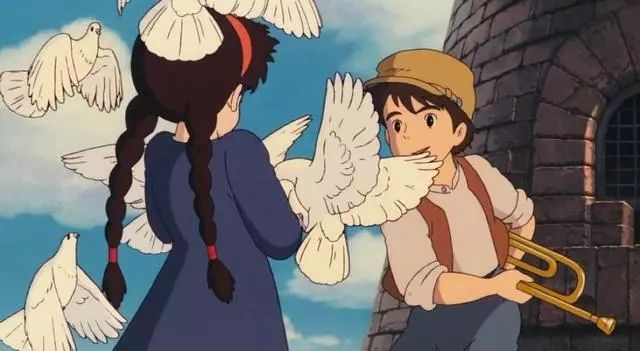
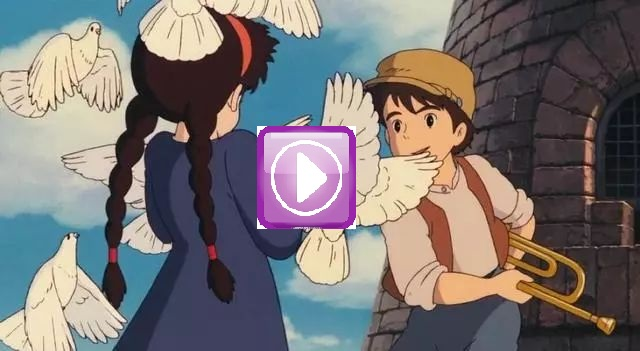
a

Changed region(s): [[0.375, 0.3419, 0.5625, 0.6553]]

diff --git a/_posts/2018-02-23-宫崎骏作品.md b/_posts/2018-02-23-宫崎骏作品.md
@@ -1,7 +1,7 @@
 ---
 layout:     post
 title:      宫崎骏作品
-subtitle:   附观影地址
+subtitle:   点击影片图片可播放
 author:     DD
 header-img: img/movie/gongqijun.jpg
 catalog: 	 true
@@ -11,18 +11,91 @@ keyword:
     - 宫崎骏
 ---
 
-### 宫崎骏介绍
+## 文中图片都会链接到播放地址
+点开即可观看
+
+
+## 宫崎骏介绍
  
  宫崎骏（日语：宮﨑 駿／みやざき はやお Miyazaki Hayao，1941年1月5日－）是日本动画师、动画导演、及漫画家。毕业于杉并区立永福小学校、杉并区立大宫中学校、东京都立丰多摩高等学校及学习院大学政治经济学院。大学毕业后踏入动画制作工作，日后成为日本知名动画厂吉卜力工作室的核心人物之一。其执导过11部长篇动画电影，多次宣布退休，2013年9月时是第7次宣布退休[2]，2016年再度复出。现任吉卜力工作室董事、德间纪念动画文化财团理事长、三鹰市立动画美术馆馆长。
 
-### 作品介绍
+## 作品介绍
 
 宫崎骏动画作品大多涉及人类与自然之间的关系、和平主义及女权运动，出品的动漫电影以精湛的技术、动人的故事和温暖的风格在世界动漫界独树一帜。宫崎骏的所有作品中，最为经典的可能就是《千与千寻》了。小编找到了宫崎骏的所有作品合集，一共34部。有他导演的，还有他编剧的，你看过几部呢？
 
-#### 1986年《天空之城》
-![](https://yabaowang.github.io/img/movie/tiankongzhicheng.jpg)
-少女希达戴着一串有飞行魔力的项链从空中落下，遭到国防军特务和海盗朵拉两组人的追击。见习机械工巴鲁救了希达把她收留在自己家里。希达在巴鲁的房中发现了一张天空之城的照片，巴鲁告诉希达自己死去的父亲曾经见到过传说中埋藏着宝藏的空中浮岛拉普塔，他的梦想就是找到这座天空之，宫崎骏的所有作品中最为经典之一。
-在线播放地址：
-[![点击播放](https://yabaowang.github.io/img/movie/tiankongzhicheng.jpg)](http://28xx.top/index.php/vod/play/id/1758/sid/1/nid/1.html)
 
-#### 马上更新后面的作品，等等哦~
+**1、1986年《天空之城》**
+[![点击播放](https://yabaowang.github.io/img/movie/tiankongzhicheng.jpg)](http://28xx.top/index.php/vod/play/id/1758/sid/1/nid/1.html)
+少女希达戴着一串有飞行魔力的项链从空中落下，遭到国防军特务和海盗朵拉两组人的追击。见习机械工巴鲁救了希达把她收留在自己家里。希达在巴鲁的房中发现了一张天空之城的照片，巴鲁告诉希达自己死去的父亲曾经见到过传说中埋藏着宝藏的空中浮岛拉普塔，他的梦想就是找到这座天空之，宫崎骏的所有作品中最为经典之一。
+
+**2、千与千寻**
+[![点击播放](https://yabaowang.github.io/img/movie/qianyuqianxun.jpg)](http://28xx.top/index.php/vod/play/id/18649/sid/1/nid/1.html)
+千与千寻是宫崎骏的所有作品中最出色的作品。10岁的少女千寻与父母一起从都市搬家到了乡下。没想到在搬家的途中，一家人发生了意外。他们进入了汤屋老板魔女控制的奇特世界——在那里不劳动的人将会被变成动物。千寻的父母出生在日本经济高速增长时代，对金钱物质有强烈的向往和控制欲，他们在幻境里触犯规则而变成了猪，千寻孤独的留在幻境里。支配城镇的魔女强行改掉了千寻的名字，这更让她感觉到自我丧失的恐怖。
+
+**3、1988年《龙猫》**
+[![点击播放](http://crawl.nosdn.127.net/nbotreplaceimg/807fb39cdf0a2cc26bd7c0ec0855255d/5fa3c488d591a1cff56ac1afb8f0b7d5.jpg)](http://28xx.top/index.php/vod/play/id/9400/sid/1/nid/1.html)
+
+和爸爸一起搬到乡下的两姐妹，在家旁的一棵大树下发现了只有好孩子才能看见的TOTORO，其间发生了很多不可思议而有趣的故事。一天，妹妹小米和姐姐吵架之后，便独自出走，去找自己生病住院的妈妈，途中却迷路了。姐姐四处寻找无果的情况下，只好求助于TOTORO。善良而温和的TOTORO唤来龙猫电车，载着姐姐找到了迷路的妹妹，乘着龙猫电车，妹妹把亲手摘的玉米送给妈妈，希望她早日康复。
+
+**4、1997年《幽灵公主》**
+[![点击播放](http://crawl.nosdn.127.net/nbotreplaceimg/807fb39cdf0a2cc26bd7c0ec0855255d/d5e55a248824ebc405ade0ca8300b161.jpg)](http://28xx.top/index.php/vod/play/id/9860/sid/1/nid/1.html)
+珊是宫崎骏电影《幽灵公主》的女主角。脸上常戴面具，身披狼皮，手持长矛。被人类遗弃在森林，后被白狼神(莫娜)收养，与白狼共同守护着森林和麒麟兽(山兽神)，她满怀对人类的仇恨，身配利器，专门刺杀破坏森林的人类，与他们势不两立。后来被阿席达卡所救，渐渐的对阿席达卡的态度有所好转。这部动漫也是宫崎骏的所有作品中最为经典之一。
+
+**5、1992年《红猪》**
+[![点击播放](http://crawl.nosdn.127.net/nbotreplaceimg/807fb39cdf0a2cc26bd7c0ec0855255d/bcc1a9c1d5eae332fcb7ddc33d2f468a.jpg)]
+与宫崎骏其他的作品有所不同，"红猪"的主角并不是少男少女，而是一头已届中年的猪。主人公虽然生得一付猪的脸孔，却异常地受到女性的欢迎呢。剧中的两位女主角年龄跨度不小，但都是一如既往地真心喜欢着波鲁克。《红猪》是宫崎骏一部带有自传性质的电影，宫崎骏自喻为剧中主人公波鲁克，将自己的那种处在俗世而身不由己的矛盾构思成波鲁克的传奇故事。
+
+**6、风之谷**
+[![点击播放](http://crawl.nosdn.127.net/nbotreplaceimg/807fb39cdf0a2cc26bd7c0ec0855255d/1bcf9d4707b04ced583efed884dc9f0b.jpg)]
+风之谷也算得上是宫崎骏的所有作品中最为经典之一，故事将大背景设定于"火之七日"战争后，科技急剧衰落，人类在世界被一种只有巨型昆虫能适应的"腐海"生态系包围的夹缝里苟延残喘的末世中。讲述了腐海边陲国家风之谷的公主娜乌西卡卷入一场王国间的激战，并在旅途中逐步发现腐海背后隐藏的秘密，引领人们重新走上生存的正轨的故事。
+
+**7、悬崖上的金鱼姬**
+[![点击播放](http://crawl.nosdn.127.net/nbotreplaceimg/807fb39cdf0a2cc26bd7c0ec0855255d/7eb8c521d963916b036fd75b079bb7a3.jpg)]
+**1968年《太阳王子霍尔斯的大冒险》**
+[![点击播放](http://crawl.nosdn.127.net/nbotreplaceimg/807fb39cdf0a2cc26bd7c0ec0855255d/5db8cf695f31da2f873a7a6bc77f3254.jpg)]
+孤立自人类社会的霍尔斯和其父住在一座无人岛上。一日，霍尔斯自岩石巨人莫克身上取得太阳之剑，并被其封为太阳王子。小熊可洛前来通知霍尔斯其父将死，他便赶紧回去守在他床边听候遗言，而其父的遗言是要他到和他们一样的人类社会去。
+
+**1981年《鲁邦三世：卡里奥斯特之城》**
+[![点击播放](http://crawl.nosdn.127.net/nbotreplaceimg/807fb39cdf0a2cc26bd7c0ec0855255d/2a3cbcde4ce467c62a334e3a04af37f7.jpg)]
+被戛纳电影节誉为"史上最好的冒险剧之一"，片头的汽车追逐战被誉为"电影史上最完美的汽车追逐战"。
+
+**1984年《未来少年柯南特别版剧场版》**
+[![点击播放](http://crawl.nosdn.127.net/nbotreplaceimg/807fb39cdf0a2cc26bd7c0ec0855255d/0da8dd5571932ee361b6ab918b9bc93c.jpg)]
+作品讲述了未来世界，科技高速发展，地球在核子战争中重生，荒岛上幸存者的后代少年柯南和神秘少女拉娜展开了他们的冒险。
+
+**1989年《魔女宅急便》**
+[![点击播放](http://crawl.nosdn.127.net/nbotreplaceimg/807fb39cdf0a2cc26bd7c0ec0855255d/0828ec85b65e7561c07c17d3b1d0dedd.jpg)]
+影片讲述的是魔法少女琪琪离开家进行独立修行的经历。这部电影描绘出日本一般青春期女孩在希望独立与自力更生所面临的困境。
+
+**《红发少女安妮 》**
+[![点击播放](http://crawl.nosdn.127.net/nbotreplaceimg/807fb39cdf0a2cc26bd7c0ec0855255d/944a9cb3055b2b38b89403b1fb9fdd52.jpg)]
+故事讲述了住在"绿山墙农庄" 的一对单身兄妹，马修和玛丽拉，因为年事渐高，想收养一个男孩帮忙农作。但是孤儿院方面送来的竟是一个瘦小的红头发小孤女--安妮。这个脸上长满雀斑、有一头火红头发、活泼好动、爱说爱笑、爱幻想的少女，同马修兄妹那种沉稳拘谨的性格本来是格格不入的，但是安妮以她的天真和热情，最终征服了众人的心，不仅在绿山墙留了下来，还倍受大家的疼爱。马修兄妹的生活也渐渐变得充满活力与生机。
+
+**1991年《岁月的童话》**
+[![点击播放](http://crawl.nosdn.127.net/nbotreplaceimg/807fb39cdf0a2cc26bd7c0ec0855255d/769d6dd1d697d958c4ddb49993d1e153.jpg)]
+影片讲述了妙子在十天的乡间假日中渐渐了解了自己，了解了生活，并由此找到了自己的意中人改变了人生的故事。
+
+**1994年《百变狸猫》**
+[![点击播放](http://crawl.nosdn.127.net/nbotreplaceimg/807fb39cdf0a2cc26bd7c0ec0855255d/18b5a56be6c1efce439477c14e695bc0.jpg)]
+讲述一群狸猫原居于和平宁静的东京郊区，但人类拓展城市，令它们的生活环境大受威胁。为了保卫家园，狸猫决议与有先进科技的人类对抗，复用早已息微的"易容术"，阻止人类的开发活动。初时它们的恶作剧令人类大感震惊，但后来却发生了同伴被杀的悲剧...最终唯有向住在隔离森林的狐狸求助，因狐狸曾与人类为敌...这场人与动物之纷争结果又如何收场。
+
+**2002年《猫的报恩》**
+[![点击播放](http://crawl.nosdn.127.net/nbotreplaceimg/807fb39cdf0a2cc26bd7c0ec0855255d/afddb47670c228153e844b0ac42c5e53.jpg)]
+讲述善良的小春从车轮下救了一只猫的性命，从而开始了奇怪的际遇。
+
+**2004年《哈尔的移动城堡》**
+[![点击播放](http://crawl.nosdn.127.net/nbotreplaceimg/807fb39cdf0a2cc26bd7c0ec0855255d/49e2d1afc8926161975eacd2819c5d61.jpg)]
+这部剧场版动画以战争前夜为背景，描述住在小镇的三姐妹，其中的大姐苏菲是位制作帽子的专家，但她却因此得罪了女巫，从18岁的美少女变成了90岁的老太婆。她惊恐地逃出家里，但又进入了一座移动的城堡，她和不能与人相恋但懂魔法的哈尔，谱出了一段战地恋曲，并且和城堡里的其他人一起想办法解开身上的魔咒。其中的城堡部分带有19世纪末钢铁工厂的特殊风格。
+
+**2013年《起风了》**
+[![点击播放](http://crawl.nosdn.127.net/nbotreplaceimg/807fb39cdf0a2cc26bd7c0ec0855255d/557d9cda8b88fd09f9d93dfcd5886788.jpg)]
+影片打造了二郎和卡普罗尼相会时的动荡年代，展现了日本大正、昭和时代的田园风光、市井乡情、噩梦般关东大地震等。
+
+**《侧耳倾听》**
+[![点击播放](http://crawl.nosdn.127.net/nbotreplaceimg/807fb39cdf0a2cc26bd7c0ec0855255d/db01d6538446f241213c7f6d5afecc93.jpg)]
+该片讲述了一个发生在1994年的故事，作画的背景大部分来自东京附近的多摩市中心。男女主角互相勉励互相学习，为各自的理想而奋斗，叙述了少男少女间清纯真挚感人的恋爱故事，表达出作者对生活的态度和积极进取的精神。
+
+
+最后，用宫崎骏大师说的一句话来结尾。
+
+“For those who're ten years old,and those used to be ten years old. 
